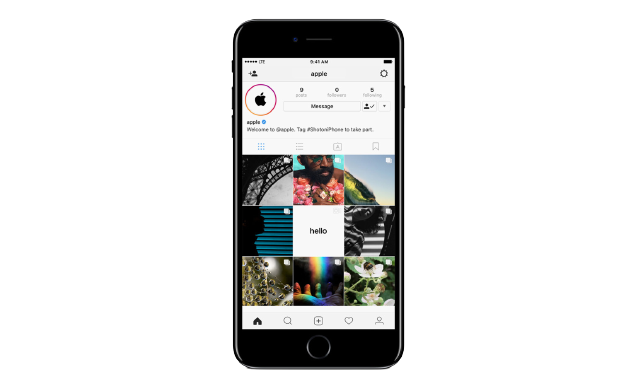
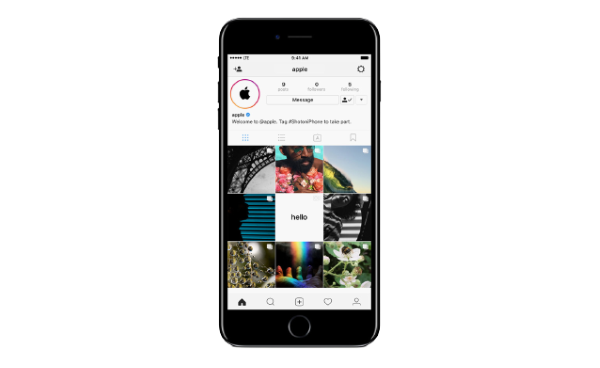
Finalização da tela do Insttagram, redimensionamento de imagens e refatoração para obter responsividade

diff --git a/style.css b/style.css
@@ -1,7 +1,7 @@
 * {
     padding: 0;
     margin: 0;
-    box-sizing: border-box;
+    /* box-sizing: border-box; */
     text-decoration: none;
     font-family: sans-serif;
     font-size: 14px;
@@ -10,7 +10,7 @@
 body{
     width: 100%;
     min-height: 100vh;
-    background-color: rgb(246, 246, 246);
+    background-color: rgb(243, 243, 243);
     margin: 0;
     padding: 0;
     display: flex;
@@ -21,19 +21,140 @@ body{
     display: flex;
     align-items: center;
     justify-content: start;
-    width: 60%;
+    /* width: 60%; */
     height: 100vh;
 }
 
 .instagram-phone{
     display: flex;
     align-items: center;
-    justify-content: start;
+    justify-content: start; 
     width: 50%;
+    margin: 60px;
 }
 
 .instagram-phone img{
-    height: 50rem;
+    height: 45rem;
 }
 
-/* faltam as partes 3 e 4*/
+.instagram-continue{
+    display: flex;
+    align-items: center;
+    justify-content: space-around; 
+    flex-direction: column;
+    width: 30%;
+}
+
+.groups{
+    display: flex;
+    justify-content: space-between;
+    align-items: center;
+    flex-direction: column;
+    background-color: #fff;
+    width: 100%;
+    padding: 1.3rem 0;
+    border: 1px solid lightgray;
+    margin: 10px;
+}
+
+.group:nth-child(1){
+    min-height: 19rem;
+}
+
+.instagram-logo{
+    height: 3rem;
+}
+
+.profile-photo{
+    display: flex;
+    justify-content: center;
+    align-items: center;
+    border-radius: 50%;
+    overflow: hidden;
+    margin: 10px;
+}
+
+.profile-photo img{
+    height: 6rem;
+}
+
+.instagram-login{
+    background-color: #0095f6;
+    color: #fff;
+    padding: 8px;
+    border-radius: 4px;
+}
+
+.instagram-logout{
+    color: #0095f6;
+    margin-top: 1rem;
+}
+
+.not-account{
+    color: rgb(160, 160, 160)
+}
+
+.link-blue{
+    color: #0095f6;
+}
+
+.get-the-app{
+    display: flex;
+    flex-direction: column;
+    align-items: center;
+    justify-content: center;
+    width: 100%;
+    padding: 1.3rem 0;
+}
+
+.download{
+    display: flex;
+    width: 100%;
+    justify-content: space-evenly;
+    align-items: center;
+    padding: 1rem;
+}
+
+.app-download{
+    height: 4rem;
+    width: 45%;
+    background-size: cover;
+}
+
+.app-download:nth-child(1){
+    background-image: url('./assets/apple-store.png');
+}
+
+.app-download:nth-child(2){
+    background-image: url('./assets/google-play.png');
+}
+
+/* media queries */
+
+@media (max-width: 10124px){
+    .instagram-wrapper{
+        width: 90%;
+    }
+}
+
+@media (max-width: 690px){
+    body{
+        background-color: #fff;
+    }
+
+    .instagram-wrapper{
+        width: 90%;
+    }
+
+    .instagram-phone{
+        display: none;
+    }
+
+    .instagram-continue{
+        width: 100%;
+    }
+
+    .group{
+        border: 1px solid transparent;
+    }
+}
